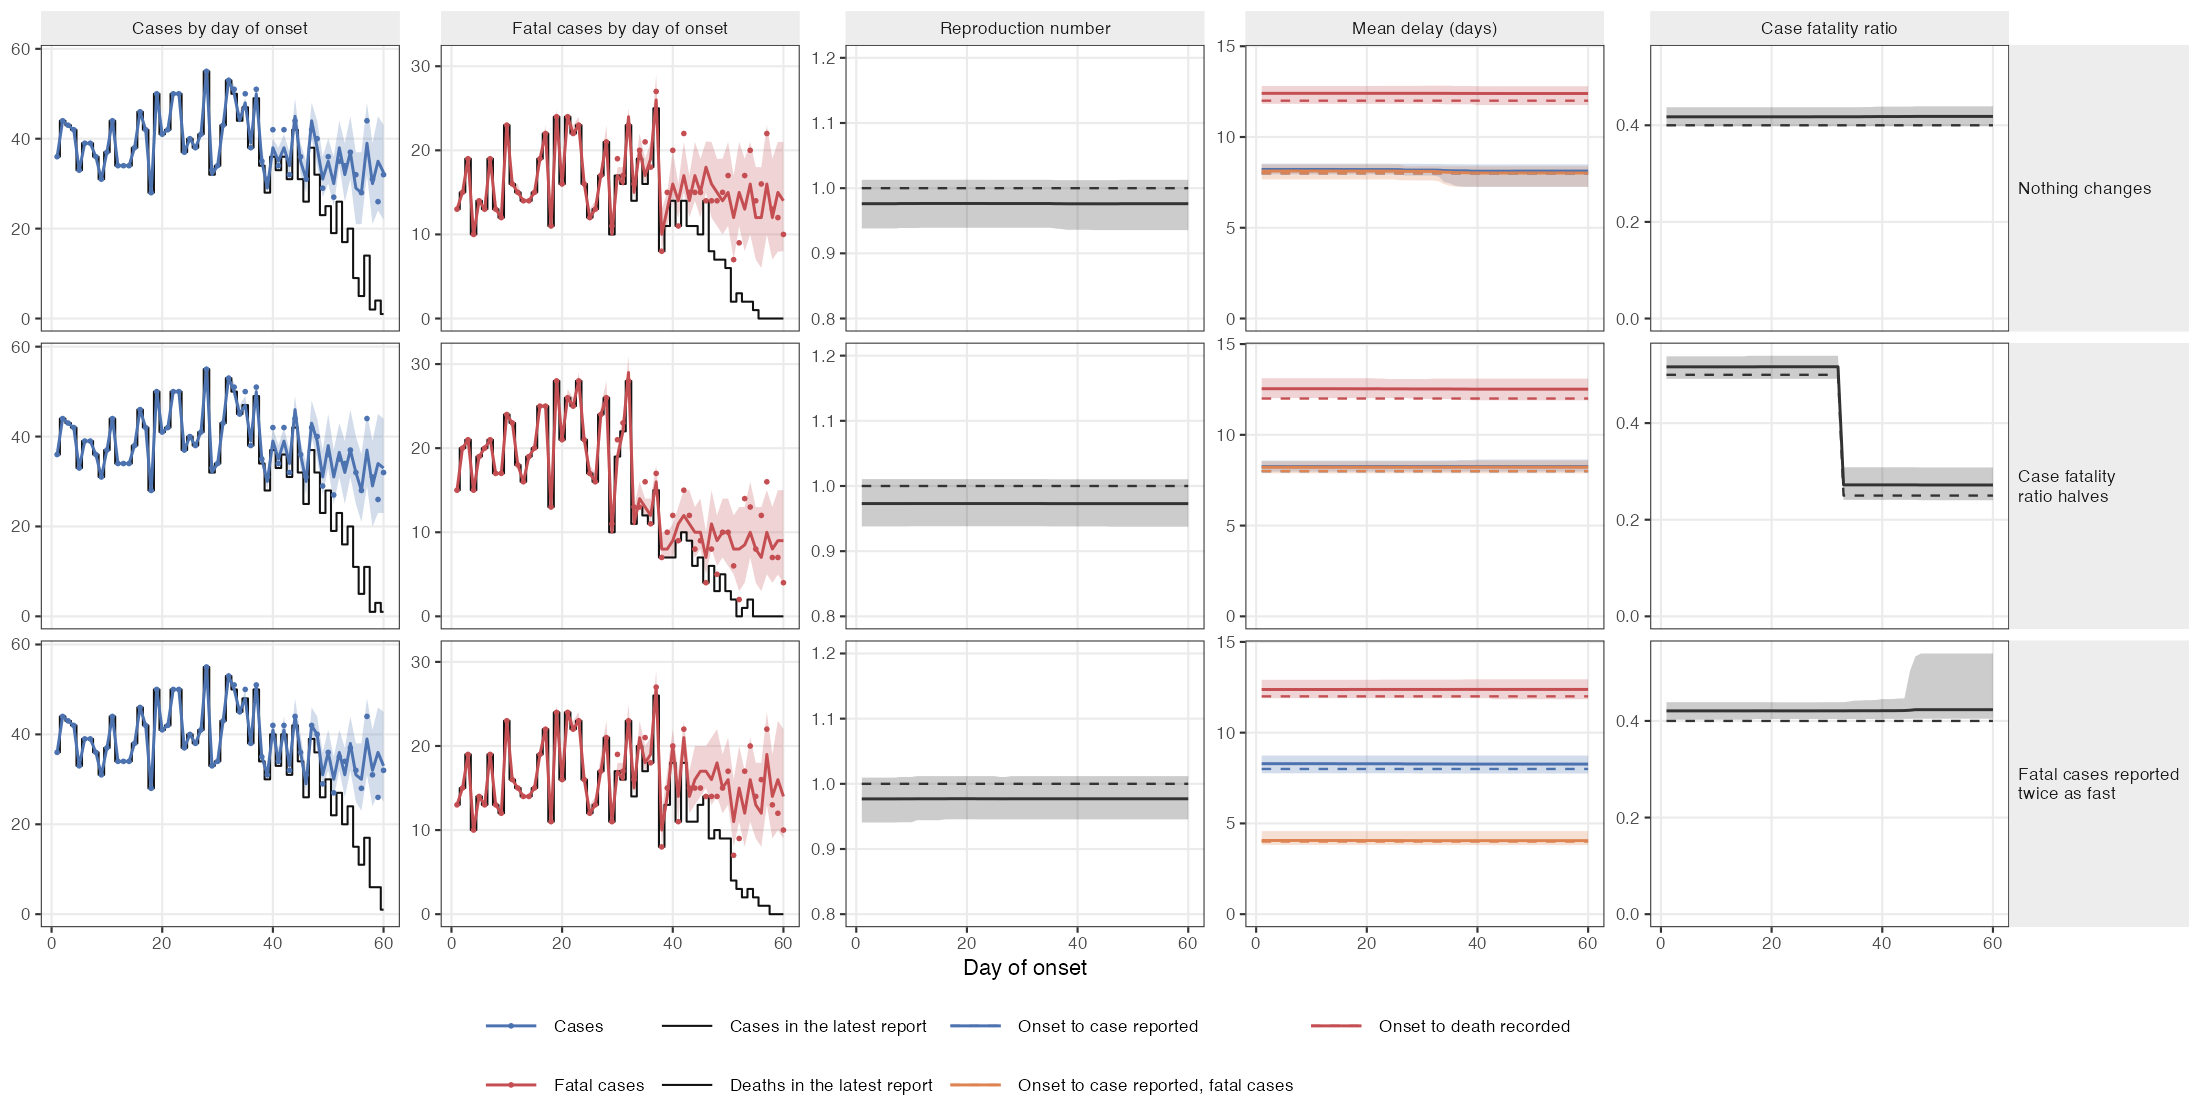
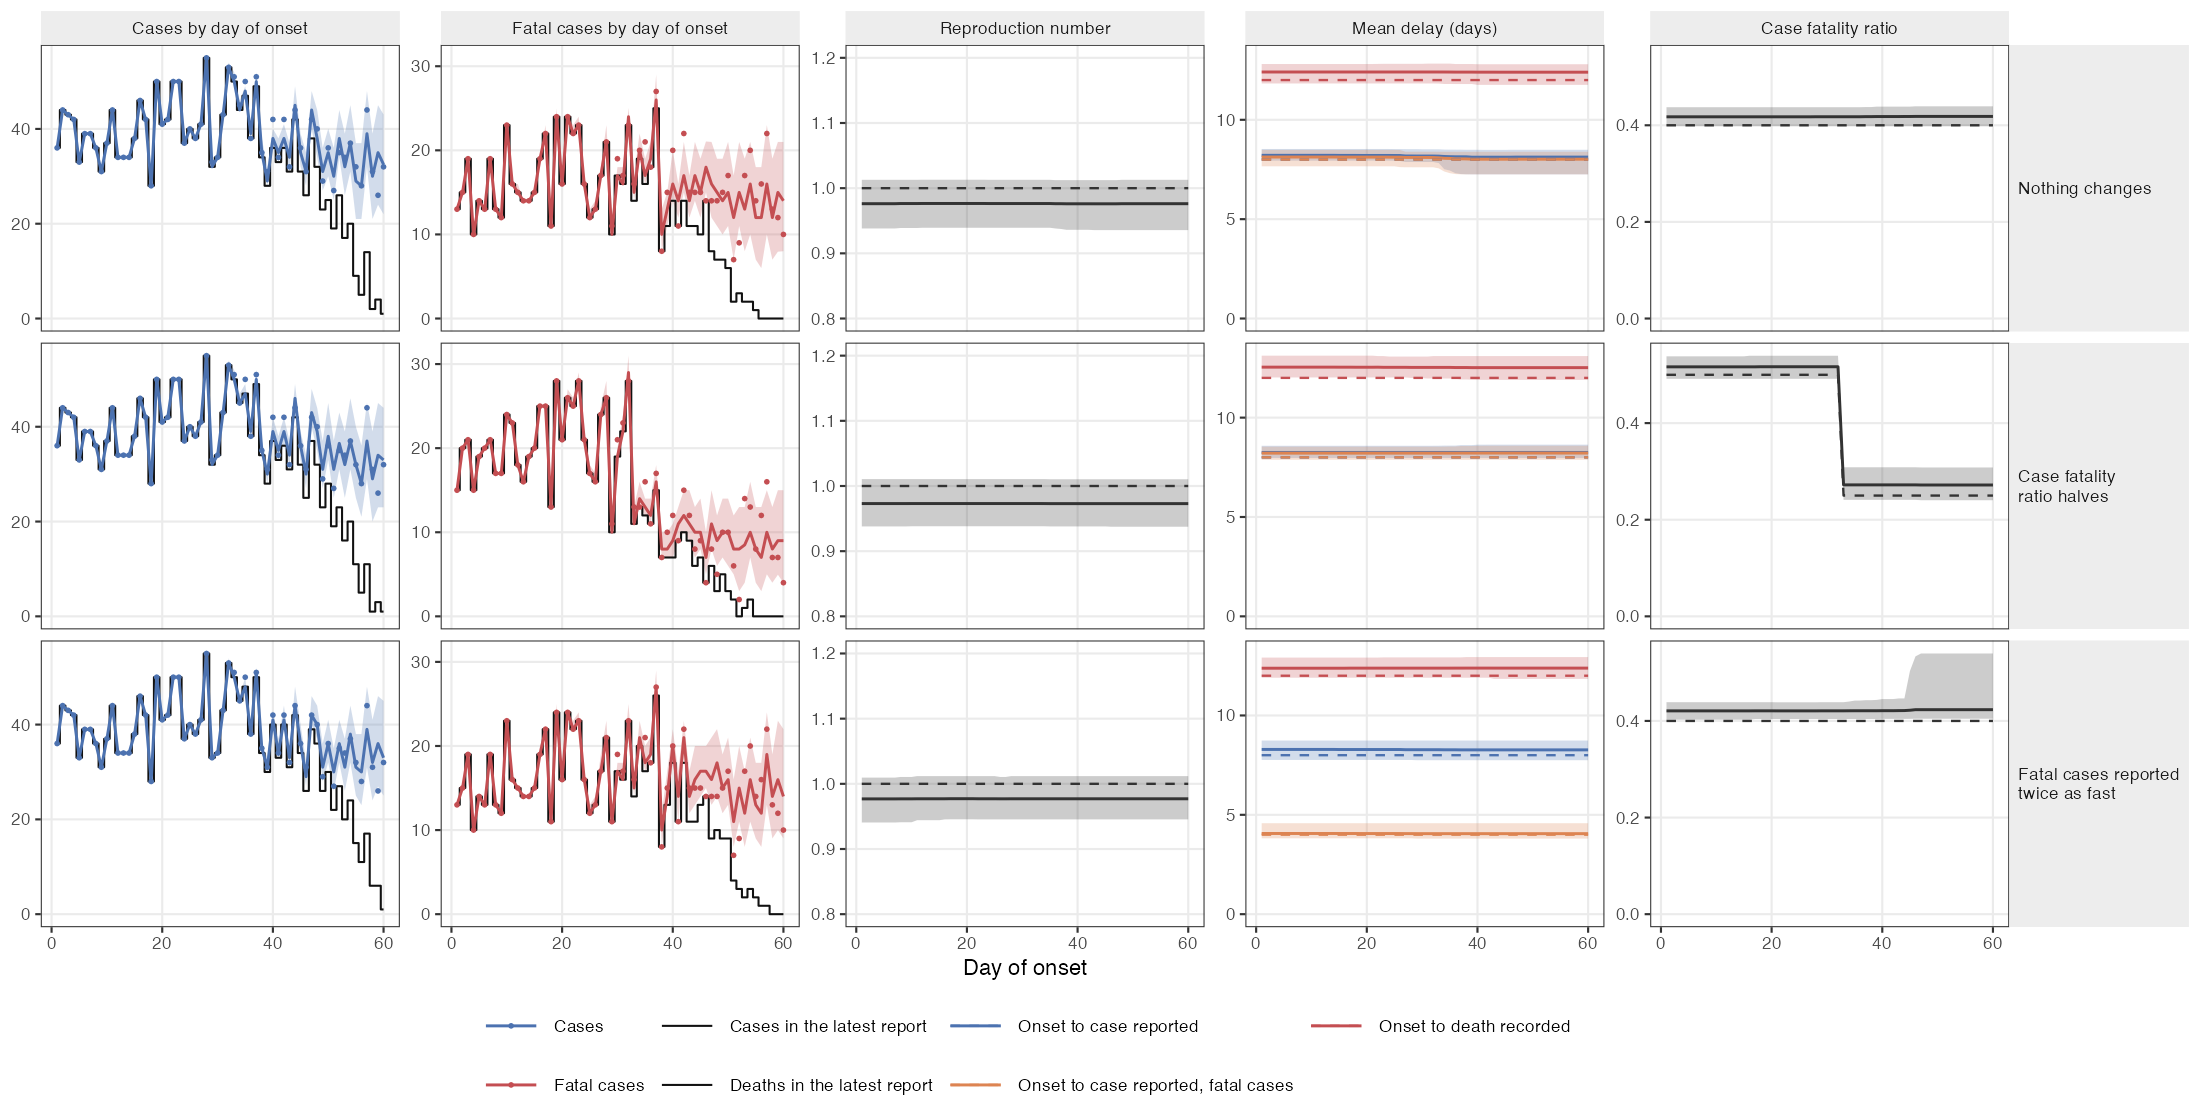
Deaths note: cases written as C and deaths as M throughout; braces on the two equations for new deaths

diff --git a/docs/bvd_deaths.tex b/docs/bvd_deaths.tex
@@ -12,8 +12,8 @@
 \newcommand{\pois}{\operatorname{Poisson}}
 \newcommand{\nb}{\operatorname{NB}}
 \newcommand{\betad}{\operatorname{beta}}
-\newcommand{\dnew}{\Delta m^{\mathrm{new}}}
-\newcommand{\dold}{\Delta m^{\mathrm{old}}}
+\newcommand{\dnew}{\Delta M^{\mathrm{new}}}
+\newcommand{\dold}{\Delta M^{\mathrm{old}}}
 
 \title{Bundibugyo virus disease, 2026: adding deaths, and a case fatality
 ratio which changes at unknown times\\[4pt]
@@ -46,12 +46,19 @@ M(t\given t_j) &: \text{the number of those cases shown as dead in that report}
 Both are read directly from the report: $M(t\given t_j)$ is the height of
 the ``dead'' part of the bar for day $t$ and $C(t\given t_j)$ the
 height of the whole bar, so $M(t\given t_j)\le C(t\given t_j)$ and
-$C(t\given t_j)-M(t\given t_j)$ are shown as alive. Capital letters with a
-report day, $C(t\given t_j)$ and $M(t\given t_j)$, are always observed
-counts. Lower-case letters introduced below ($r$, $s$, $m$) are unobserved
-counts. All of these are running totals: what a report shows. The change in
-a total from one report to the next is written with a $\Delta$, for example
-$\Delta C(t\given t_j)=C(t\given t_j)-C(t\given t_{j-1})$.
+$C(t\given t_j)-M(t\given t_j)$ are shown as alive. 
+
+Notation for what the reports show follows three rules.
+\begin{itemize}
+\item Everything about cases is a $C$ and everything about deaths an $M$.
+\item $C(t\given t_j)$ and $M(t\given t_j)$ with no superscript are the
+counts in the report, which are observed. A superscript marks a part of one
+of them which is not observed: for example $C^{F}(t\given t_j)$ below is
+the number of the $C(t\given t_j)$ cases which are fatal.
+\item These are all running totals: what the report of $t_j$ shows. The
+change in a total from the report before is written with a $\Delta$, for
+example $\Delta C(t\given t_j)=C(t\given t_j)-C(t\given t_{j-1})$.
+\end{itemize}
 Three features of these data shape the model.
 \begin{itemize}
 \item A death is counted on the day its case is counted for, and the reports
@@ -151,31 +158,32 @@ the same route or on the same days.
 
 \subsection{What a report shows}
 
-Leaving wrong records aside until \S\ref{sec:wrong}, the cases of onset day
-$t$ in the report of day $t_j$ are of three kinds:
+Leaving wrong records aside until \S\ref{sec:wrong}, the
+$C(t\given t_j)$ cases of onset day $t$ in the report of day $t_j$ are some
+of them fatal and the rest not:
+\begin{equation}
+C(t\given t_j)=C^{F}(t\given t_j)+C^{N}(t\given t_j),
+\label{eq:observed}
+\end{equation}
+where $C^{F}(t\given t_j)$ is the number of fatal cases reported by day
+$t_j$ and $C^{N}(t\given t_j)$ the number of non-fatal cases. The cases in
+the report are then of three kinds:
 \begin{center}
 \begin{tabular}{lll}
 \toprule
  & Number & Shown as \\
 \midrule
-Non-fatal cases reported so far & $s(t\given t_j)$ & alive \\
-Fatal cases reported, death not yet recorded & $r(t\given t_j)-m(t\given t_j)$ & alive \\
-Fatal cases reported, death recorded & $m(t\given t_j)$ & dead \\
+Non-fatal cases reported so far & $C^{N}(t\given t_j)$ & alive \\
+Fatal cases reported, death not yet recorded & $C^{F}(t\given t_j)-M(t\given t_j)$ & alive \\
+Fatal cases reported, death recorded & $M(t\given t_j)$ & dead \\
 \bottomrule
 \end{tabular}
 \end{center}
-Here $r(t\given t_j)$ is the number of fatal cases reported by day $t_j$.
-So
-\begin{equation}
-C(t\given t_j)=s(t\given t_j)+r(t\given t_j),\qquad M(t\given t_j)=m(t\given t_j).
-\label{eq:observed}
-\end{equation}
-The counts $C$ and $M$ are observed. The number $r$ of fatal cases among
-those reported is not: some of the cases shown as alive will die. Given $r$,
-the other two follow from what is observed: $s=C-r$ and $m=M$. One further
-thing is not observed, which is described next: how the deaths newly shown
-in a report divide between cases new to that report and cases already in
-the one before.
+The counts $C$ and $M$ are observed. How the cases divide into $C^{F}$ and
+$C^{N}$ is not: some of the cases shown as alive will die. One further thing
+is not observed, which is described next: how the deaths newly shown in a
+report divide between cases new to that report and cases already in the one
+before.
 
 \subsection{From one report to the next}
 
@@ -193,20 +201,20 @@ true of it in the earlier one.
 The cases newly in the report of $t_j$ are fatal or not:
 \begin{align}
 \text{fatal cases new to the report}\quad
- & \Delta r(t\given t_j)\sim\bin\bigl(F(t)-r(t\given t_{j-1}),\ p^{F}(t\given t_j)\bigr),
+ & \Delta C^{F}(t\given t_j)\sim\bin\bigl(F(t)-C^{F}(t\given t_{j-1}),\ p^{F}(t\given t_j)\bigr),
  \label{eq:a}\\
 \text{non-fatal cases new to the report}\quad
- & \Delta s(t\given t_j)\sim\bin\bigl(N(t)-s(t\given t_{j-1}),\ p(t\given t_j)\bigr),
+ & \Delta C^{N}(t\given t_j)\sim\bin\bigl(N(t)-C^{N}(t\given t_{j-1}),\ p(t\given t_j)\bigr),
  \label{eq:b}
 \end{align}
-and $\Delta C(t\given t_j)=\Delta r(t\given t_j)+\Delta s(t\given t_j)$ is
+and $\Delta C(t\given t_j)=\Delta C^{F}(t\given t_j)+\Delta C^{N}(t\given t_j)$ is
 the observed rise in the case count.
 
-The deaths newly shown in the report of $t_j$, $\Delta m(t\given t_j)$,
-belong to cases of two kinds, and the two are counted separately because
+The deaths newly shown in the report of $t_j$, $\Delta M(t\given t_j)$,
+which are observed, belong to cases of two kinds, and the two are counted separately because
 they have different probabilities:
 \[
-\Delta m(t\given t_j)=\dnew(t\given t_j)+\dold(t\given t_j).
+\Delta M(t\given t_j)=\dnew(t\given t_j)+\dold(t\given t_j).
 \]
 \begin{itemize}
 \item $\dnew(t\given t_j)$: fatal cases which are in the report of $t_j$ for
@@ -218,22 +226,24 @@ unreported until now says nothing about whether the death has been recorded,
 since the two delays are independent.
 \item $\dold(t\given t_j)$: fatal cases which were in the report of
 $t_{j-1}$, shown there as alive, and are shown as dead in the report of
-$t_j$. There were $r(t\given t_{j-1})-m(t\given t_{j-1})$ such cases to
+$t_j$. There were $C^{F}(t\given t_{j-1})-M(t\given t_{j-1})$ such cases to
 start with, and for each the death was not recorded by $t_{j-1}$ but is by
 $t_j$.
 \end{itemize}
 So
 \begin{align}
-\text{new to the report, shown as dead}\quad
- & \dnew(t\given t_j)\sim\bin\bigl(\Delta r(t\given t_j),\ 1-S^{*}_\phi(t\given t_j)\bigr),
- \label{eq:x}\\
-\text{in the report before as alive, now shown as dead}\quad
- & \dold(t\given t_j)\sim\bin\Bigl(r(t\given t_{j-1})-m(t\given t_{j-1}),\
- 1-\frac{S^{*}_\phi(t\given t_j)}{S^{*}_\phi(t\given t_{j-1})}\Bigr).
+\dnew(t\given t_j) &\sim\bin\Bigl(
+ \underbrace{\Delta C^{F}(t\given t_j)}_{\substack{\text{fatal cases new}\\ \text{to the report}}},\
+ \underbrace{1-S^{*}_\phi(t\given t_j)}_{\substack{\text{probability the death}\\ \text{has been recorded by } t_j}}
+ \Bigr),
+ \label{eq:x}\\[1ex]
+\dold(t\given t_j) &\sim\bin\Bigl(
+ \underbrace{C^{F}(t\given t_{j-1})-M(t\given t_{j-1})}_{\substack{\text{fatal cases shown as alive}\\ \text{in the report before}}},\
+ \underbrace{1-\frac{S^{*}_\phi(t\given t_j)}{S^{*}_\phi(t\given t_{j-1})}}_{\substack{\text{probability the death has been}\\ \text{recorded by } t_j \text{, given that it}\\ \text{had not been by } t_{j-1}}}
+ \Bigr).
  \label{eq:y}
 \end{align}
-Only the sum $\Delta m(t\given t_j)=\Delta M(t\given t_j)$ is observed, not
-its two parts. All totals are zero before the first report.
+Only their sum $\Delta M(t\given t_j)$ is observed, not the two parts. All totals are zero before the first report.
 
 For example, suppose a report shows 10 cases for an onset day, 3 of them
 dead, and the next report shows 12 cases, 5 of them dead. Then
@@ -361,20 +371,20 @@ This needs no further input, but there is little reason to believe it.
 
 \paragraph{The exact version.} The two kinds of fatal case recorded for day
 $t$ are reported at different speeds, so strictly each must be followed
-separately. Write $r^{o}(t\given t_j)$ and $r^{d}(t\given t_j)$ for the
+separately. Write $C^{F,o}(t\given t_j)$ and $C^{F,d}(t\given t_j)$ for the
 numbers reported by day $t_j$ of those dated by onset and those dated by
-death, and $m^{o}(t\given t_j)$ for the number of the former shown as dead.
+death, and $M^{o}(t\given t_j)$ for the number of the former shown as dead.
 From the report of $t_{j-1}$ to the report of $t_j$,
 \begin{align}
 \text{dated by onset, new to the report}\quad
- & \Delta r^{o}(t\given t_j)\sim\bin\bigl(F(t)-D(t)-r^{o}(t\given t_{j-1}),\ p^{F}(t\given t_j)\bigr),
+ & \Delta C^{F,o}(t\given t_j)\sim\bin\bigl(F(t)-D(t)-C^{F,o}(t\given t_{j-1}),\ p^{F}(t\given t_j)\bigr),
  \label{eq:ao}\\
 \text{dated by death, new to the report}\quad
- & \Delta r^{d}(t\given t_j)\sim\bin\Bigl(G(t)-r^{d}(t\given t_{j-1}),\
+ & \Delta C^{F,d}(t\given t_j)\sim\bin\Bigl(G(t)-C^{F,d}(t\given t_{j-1}),\
  1-\frac{S^{*}_\omega(t\given t_j)}{S^{*}_\omega(t\given t_{j-1})}\Bigr),
  \label{eq:ad}\\
-\text{of the $\Delta r^{o}(t\given t_j)$, shown as dead}\quad
- & \Delta m^{o,\mathrm{new}}(t\given t_j)\sim\bin\bigl(\Delta r^{o}(t\given t_j),\ 1-S^{*}_\phi(t\given t_j)\bigr),
+\text{of the $\Delta C^{F,o}(t\given t_j)$, shown as dead}\quad
+ & \Delta M^{o,\mathrm{new}}(t\given t_j)\sim\bin\bigl(\Delta C^{F,o}(t\given t_j),\ 1-S^{*}_\phi(t\given t_j)\bigr),
  \label{eq:xo}
 \end{align}
 with $\dold(t\given t_j)$ as in \eqref{eq:y} for the cases dated by onset
@@ -384,17 +394,17 @@ in its first report only if its death has been recorded by then, and
 otherwise is shown as alive for now and changes to dead in a later report.
 The reports then show
 \[
-C(t\given t_j)=s(t\given t_j)+r^{o}(t\given t_j)+r^{d}(t\given t_j),\qquad
-M(t\given t_j)=m^{o}(t\given t_j)+r^{d}(t\given t_j).
+C(t\given t_j)=C^{N}(t\given t_j)+C^{F,o}(t\given t_j)+C^{F,d}(t\given t_j),\qquad
+M(t\given t_j)=M^{o}(t\given t_j)+C^{F,d}(t\given t_j).
 \]
 This is exact, but it has two unobserved numbers for each day and report,
-$r^{o}$ and $r^{d}$, where the model without these cases has one. The
+$C^{F,o}$ and $C^{F,d}$, where the model without these cases has one. The
 sampling of these numbers (\S\ref{sec:fitting}) is the slowest part of the
 fitting and would be several times slower, by a factor of roughly the
 number of cases dated by death recorded for a day.
 
 \paragraph{The approximation used.} The model as built follows only the
-total, $r(t\given t_j)=r^{o}(t\given t_j)+r^{d}(t\given t_j)$, as before. To
+total, $C^{F}(t\given t_j)=C^{F,o}(t\given t_j)+C^{F,d}(t\given t_j)$, as before. To
 do this it does not use the number $G(t)$ of cases dated by death as a fixed
 number. It treats each of the $\tilde{F}(t)$ fatal cases recorded for day
 $t$ as dated by death with probability
@@ -411,7 +421,7 @@ reported by day $t_j$ is then a mixture over the two kinds,
 and \eqref{eq:ao} and \eqref{eq:ad} are replaced by a single equation for
 the fatal cases new to the report, of either kind,
 \begin{equation}
-\Delta r(t\given t_j)\sim\bin\Bigl(\tilde{F}(t)-r(t\given t_{j-1}),\
+\Delta C^{F}(t\given t_j)\sim\bin\Bigl(\tilde{F}(t)-C^{F}(t\given t_{j-1}),\
 1-\frac{\tilde{S}(t\given t_j)}{\tilde{S}(t\given t_{j-1})}\Bigr).
 \label{eq:amix}
 \end{equation}
@@ -427,7 +437,7 @@ report with certainty if it is dated by death, and with probability
 $1-S^{*}_\phi(t\given t_j)$ if it is dated by onset, so that \eqref{eq:xo}
 and the cases dated by death together give
 \begin{equation}
-\dnew(t\given t_j)\sim\bin\Bigl(\Delta r(t\given t_j),\
+\dnew(t\given t_j)\sim\bin\Bigl(\Delta C^{F}(t\given t_j),\
 \pi(t\given t_j)+\bigl(1-\pi(t\given t_j)\bigr)\bigl[1-S^{*}_\phi(t\given t_j)\bigr]\Bigr)
 \label{eq:xdated}
 \end{equation}
@@ -507,13 +517,17 @@ added, and each wrong record present is removed with probability
 $1-(1-\rho)^{t_j-t_{j-1}}$. Since removed records are sometimes dead, a wrong
 record is now of one of two kinds: each new wrong record is shown as dead
 with probability $\delta$ and as alive otherwise. With $E^{A}$ and $E^{D}$
-the numbers of wrong records shown as alive and as dead, \eqref{eq:observed}
-becomes
+the numbers of wrong records shown as alive and as dead, the counts in a
+report include them:
 \[
-C(t\given t_j)=s(t\given t_j)+r(t\given t_j)+E^{A}(t\given t_j)+E^{D}(t\given t_j),
+C(t\given t_j)=C^{N}(t\given t_j)+C^{F}(t\given t_j)+E^{A}(t\given t_j)+E^{D}(t\given t_j),
 \qquad
-M(t\given t_j)=m(t\given t_j)+E^{D}(t\given t_j).
+M(t\given t_j)=M^{G}(t\given t_j)+E^{D}(t\given t_j),
 \]
+where $M^{G}(t\given t_j)$ is the number of genuine fatal cases shown as
+dead. Without wrong records $M^{G}=M$, which is why the deaths of genuine
+cases were written as $M$ above; with them, $M^{G}$ is not observed and
+takes the place of $M$ in \eqref{eq:x} and \eqref{eq:y}.
 As now, the total $E^{A}+E^{D}$ for an onset day is limited to a small
 number (one more than the largest fall seen in a count of cases or of
 deaths). Where some fatal cases are dated by death (\S\ref{sec:dated}), the
@@ -587,19 +601,19 @@ many early deaths among few reported cases make a small $I(t)$ unlikely.
 
 The sampler extends the existing one (Metropolis within Gibbs). The new
 unobserved counts are the fatal cases $F(t)$ and, for each onset day, the
-path over reports of the fatal cases reported $r(t\given t_j)$ and of the
+path over reports of the fatal cases reported $C^{F}(t\given t_j)$ and of the
 wrong records $E^{A},E^{D}$.
 \begin{enumerate}
 \item \emph{$F(t)$, with the path summed out.} Once every case of an onset
 day has been reported, the fatal cases among those reported are all the
-fatal cases, $r=F(t)$, so neither can move while the other is held fixed.
+fatal cases, $C^{F}=F(t)$, so neither can move while the other is held fixed.
 $F(t)$ is therefore updated first with the path summed out: a change of up
 to three is proposed and accepted with the Metropolis probability, using the
 probability of the reports of that onset day given $I(t)$ and $F(t)$. This
 probability is the result of filtering forwards over the reports.
 \item \emph{Paths.} For each onset day the path of
-$(r,E^{A},E^{D})$ over reports is then drawn exactly given everything else,
-by sampling backwards. The state space is small because $r$ can rise between
+$(C^{F},E^{A},E^{D})$ over reports is then drawn exactly given everything else,
+by sampling backwards. The state space is small because $C^{F}$ can rise between
 two reports by no more than the case count does. Steps 1 and 2 are the
 slowest part of the fitting and are done in compiled code; states whose
 probability given the reports so far is below $10^{-12}$ of the largest are
